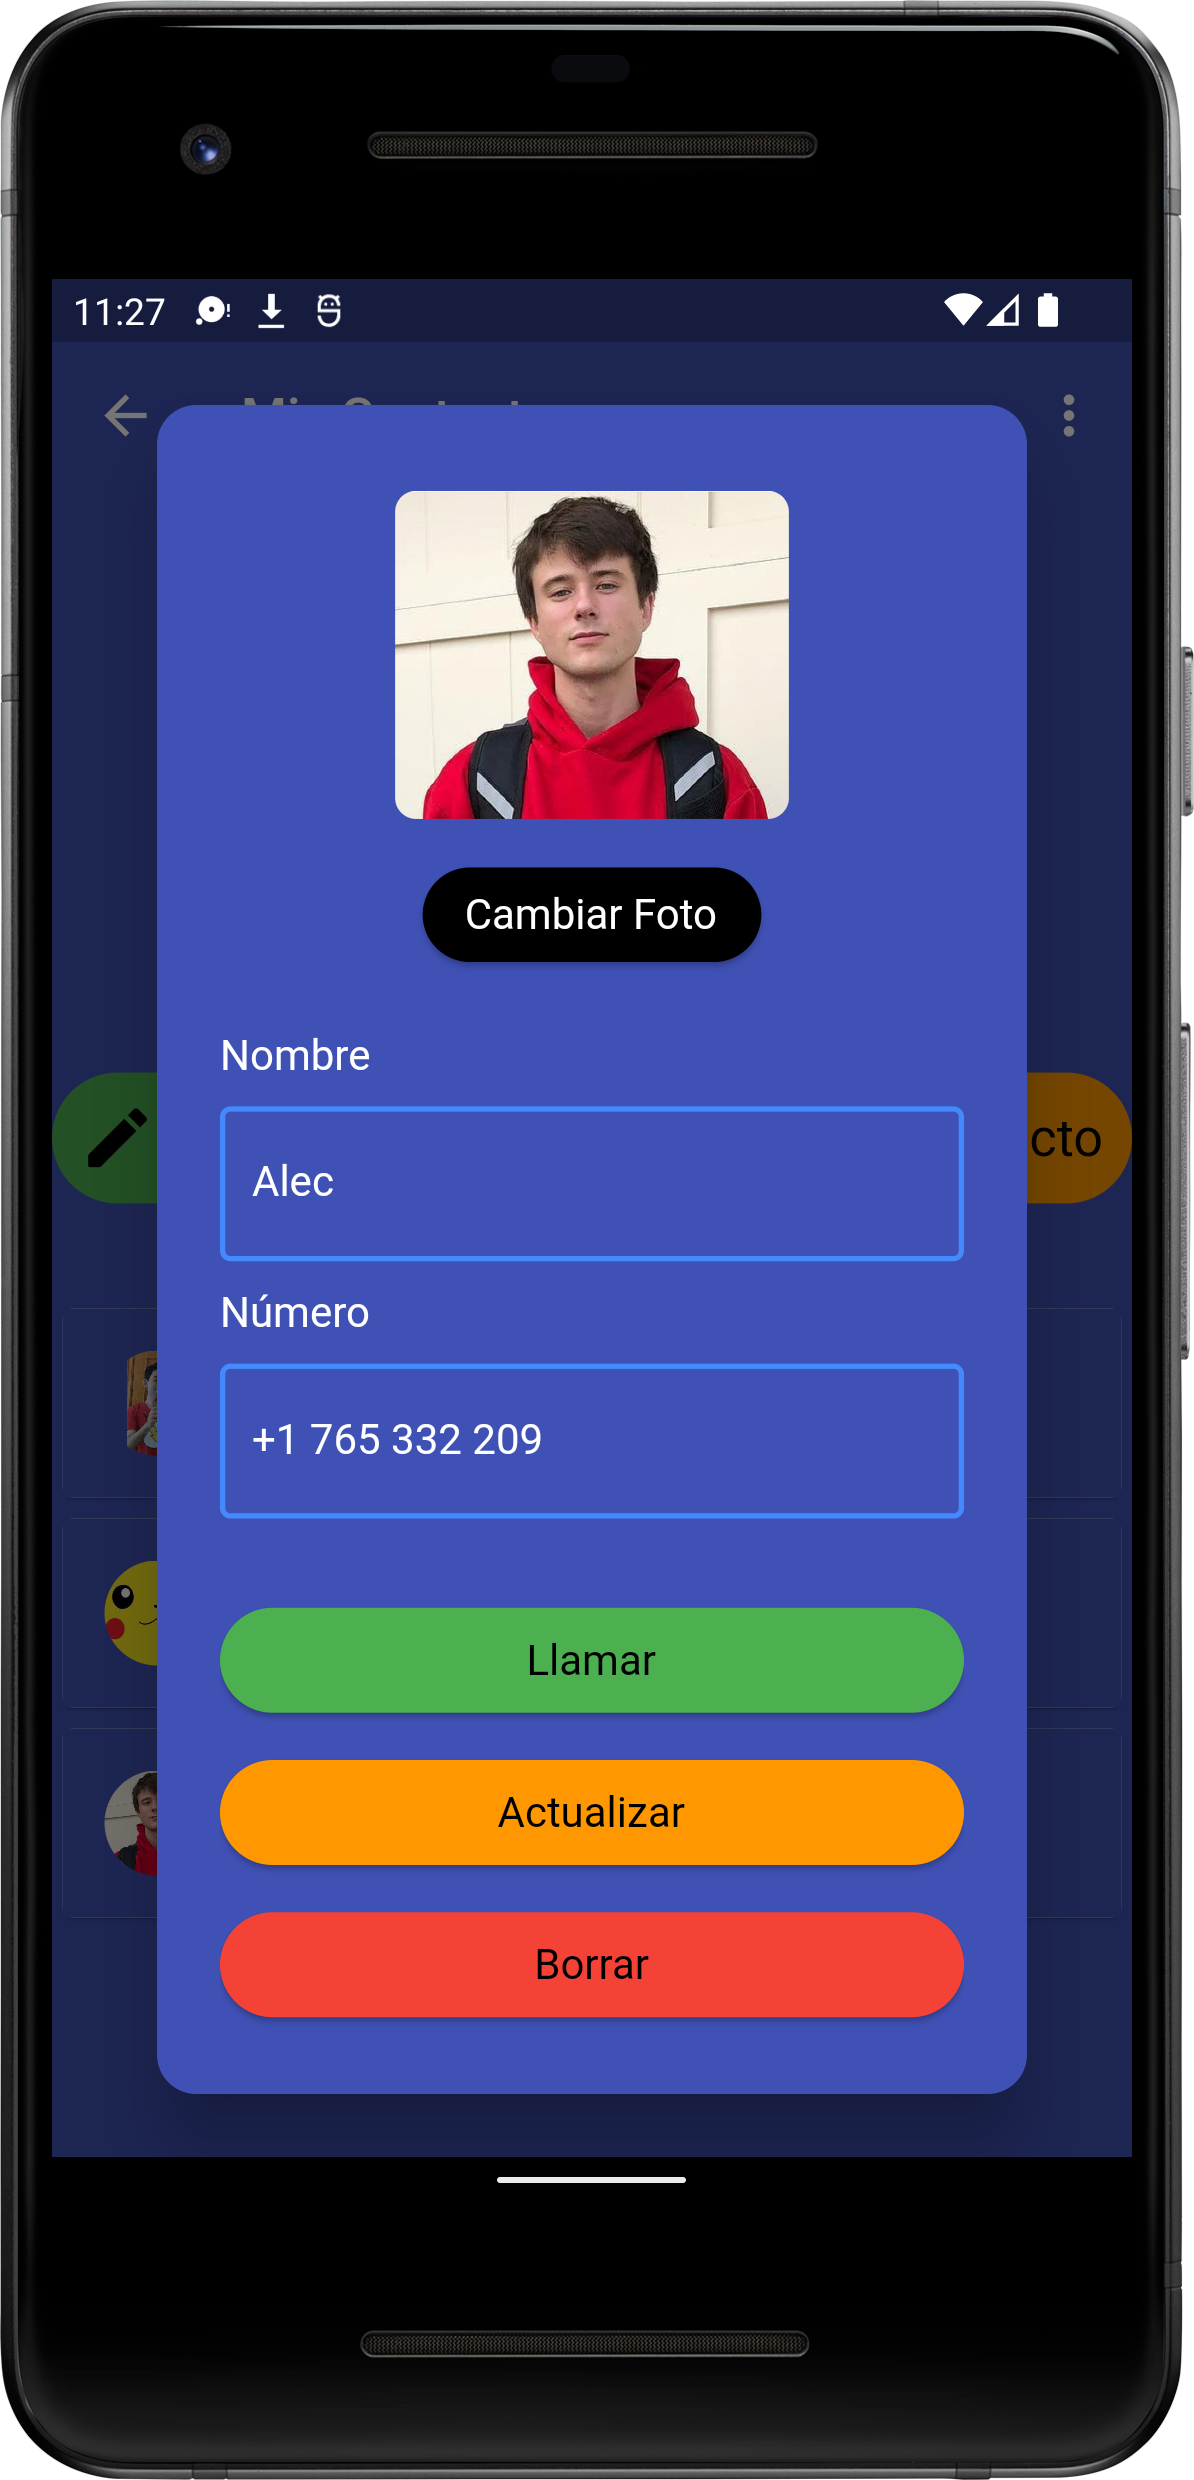
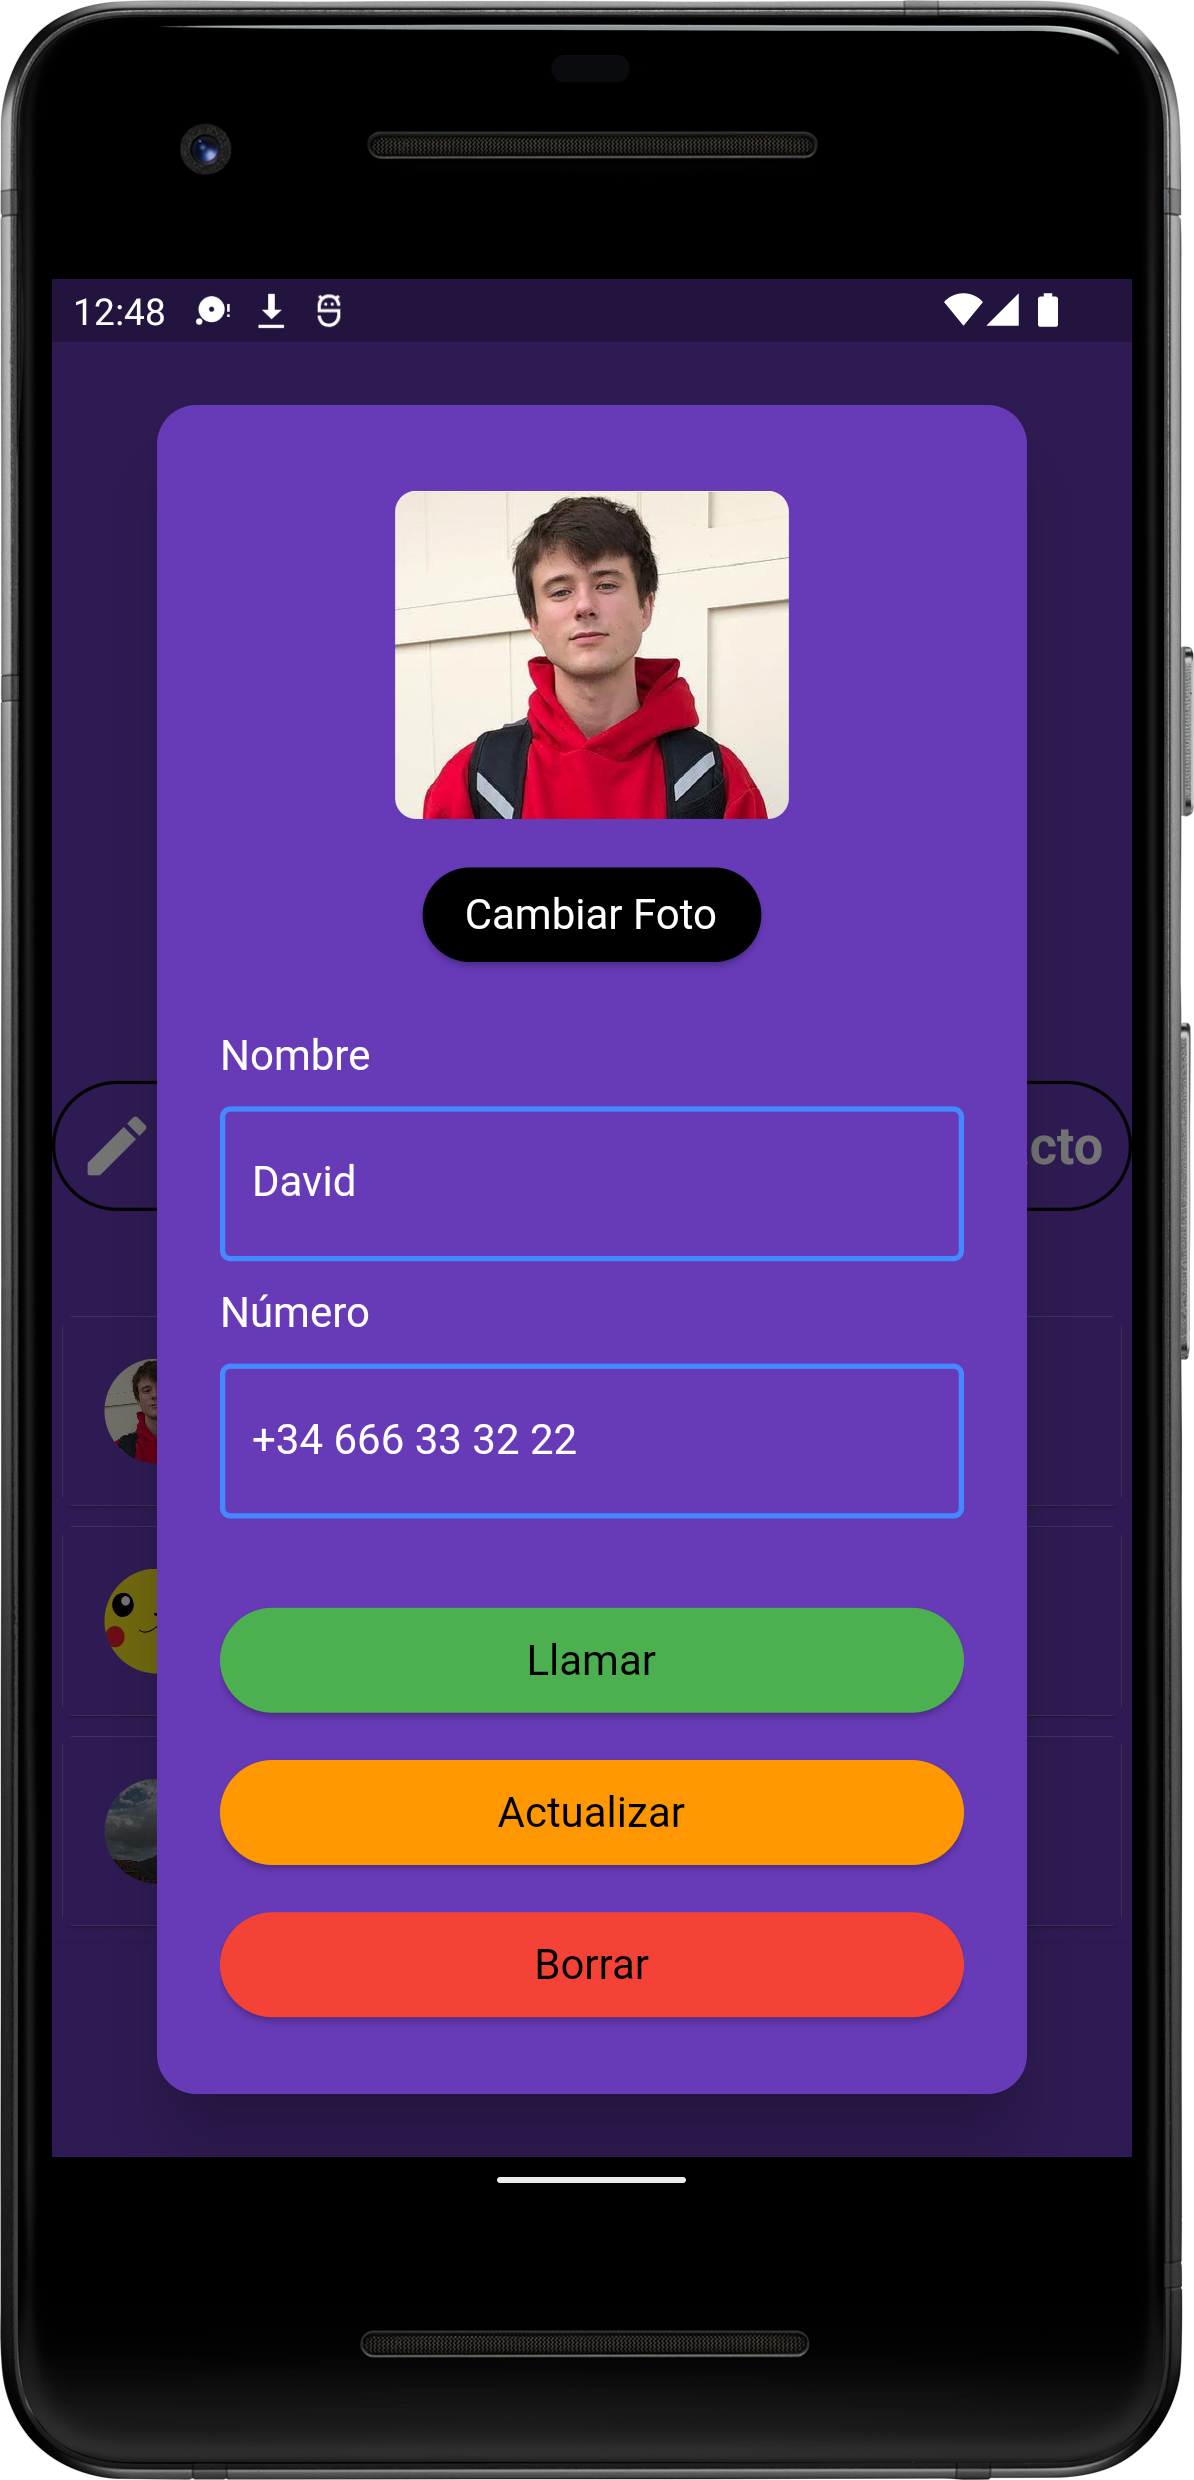
UI improvements

diff --git a/lib/Contacts.dart b/lib/Contacts.dart
@@ -745,68 +745,16 @@ void exportContacts(String path) async{
     return Scaffold(
       backgroundColor: colores[mode_counter],
       appBar: AppBar(
+        automaticallyImplyLeading: false,
         elevation: 0.0,
         backgroundColor: colores[mode_counter],
-        title: Text(language[current_language]["Contacts"]["title"],
-          style: TextStyle(color: fonts[mode_counter]),
-
-        ),
-        actions: [
-          PopupMenuButton(
-            color: colores[mode_counter],
-            itemBuilder: (context){
-              return[
-                PopupMenuItem<int>(
-                  value: 0,
-                  child: Text(
-                   language[current_language]["Contacts"]["menu_button"],
-                    style: TextStyle(color:  Colors.white),
-
-                  ),
-                ),
-
-                PopupMenuItem(
-                  value: 1,
-                  child: Text(
-              language[current_language]["Contacts"]["menu_button_2"],
-                      style: TextStyle(color:  Colors.white)),
-                ),
-              ];
-
-            },
-
-            onSelected: (value) async {
-              if(value == 0){
-                pickFile();
-
-              }
-
-              else if ( value == 1){
-                pickDirectory(); // User can pick a dir
-                if (myBackupDir == null){
-                ScaffoldMessenger.of(context).showSnackBar(SnackBar(
-                content: Text("User cancelled the operation :("),
-                ));
-                } else{
-                exportContacts(myBackupDir);
-                ScaffoldMessenger.of(context).showSnackBar(SnackBar(
-                content: Text("$myBackupFile"),
-                ));
-
-                }
-
-              }
-            }
-          )
-        ],
-        iconTheme: IconThemeData(
-          color: fonts[mode_counter], //change your color here
-        ),
     ),
     body: Column(
       children: <Widget>[
-      Text("\n"),
       Image.asset('assets/images/contacts.png'),
+        Text(language[current_language]["Contacts"]["title"],
+          style: TextStyle(color: Colors.white, fontSize: 30, fontWeight: FontWeight.bold),
+        ),
         FittedBox(
             child: Container(
                 width: MediaQuery
@@ -827,11 +775,17 @@ void exportContacts(String path) async{
                           language[current_language]["Contacts"]["button1"],
                           style: TextStyle(
                               fontSize: 16,
-                              color: Colors.black),
+                              color: Colors.white,
+                              fontWeight: FontWeight.bold),
                         ),
                         style: TextButton.styleFrom(
-                          textStyle: TextStyle(color: Colors.black),
-                          backgroundColor: Colors.green,
+                          side: BorderSide(
+                            width: 1.0,
+                            color: Colors.black,
+                            style: BorderStyle.solid,
+                          ),
+                          textStyle: TextStyle(color: Colors.white),
+                          backgroundColor: Colors.transparent,
                           shape:RoundedRectangleBorder(
                             borderRadius: BorderRadius.circular(24.0),
                           ),
@@ -841,6 +795,8 @@ void exportContacts(String path) async{
                            context: context,
                            builder: (BuildContext context){
                              return AlertDialog(
+                               shape: RoundedRectangleBorder(
+                                   borderRadius: BorderRadius.all(Radius.circular(15.0))),
                                backgroundColor: Colors.lightGreen,
                                content: SingleChildScrollView(
                                  child: Column(
@@ -916,18 +872,25 @@ void exportContacts(String path) async{
 
                          );
                         },
-                        icon: Icon(Icons.create_rounded, color: Colors.black,),
+                        icon: Icon(Icons.create_rounded, color: Colors.white
+                          ,),
                       ), SizedBox(width: 10,),
                       TextButton.icon(
                         label: Text(
                           language[current_language]["Contacts"]["button2"],
                           style: TextStyle(
                               fontSize: 16,
-                              color: Colors.black),
+                              color: Colors.white,
+                             fontWeight: FontWeight.bold ),
                         ),
                         style: TextButton.styleFrom(
-                          textStyle: TextStyle(color: Colors.black),
-                          backgroundColor: Colors.orange,
+                          side: BorderSide(
+                            width: 1.0,
+                            color: Colors.black,
+                            style: BorderStyle.solid,
+                          ),
+                          textStyle: TextStyle(color: Colors.white),
+                          backgroundColor: Colors.transparent,
                           shape:RoundedRectangleBorder(
                             borderRadius: BorderRadius.circular(24.0),
                           ),
@@ -951,14 +914,12 @@ void exportContacts(String path) async{
                             content: Text(language[current_language]["Contacts"]["toaster"] + "\n" + name + "(" + number+ ")"),
                           ));
                         },
-                        icon: Icon(Icons.add_rounded, color: Colors.black,),
+                        icon: Icon(Icons.add_rounded, color: Colors.white,),
                       ),
                     ]))
         ),
 
         ),if(contactos.length == 0) Image.asset("assets/images/empty.png") ,
-        if(contactos.length == 0) Text(language[current_language]["Contacts"]["empty"],
-            style: TextStyle(color: fonts[mode_counter], fontSize: 20)) ,
 
       Expanded(
     child : ListView.builder(
@@ -992,6 +953,51 @@ void exportContacts(String path) async{
         },
       ),
 
-    )]));
+    )]
+    ),
+        bottomNavigationBar: BottomNavigationBar(
+          iconSize: 35,
+          showSelectedLabels: true,
+          showUnselectedLabels: true,
+          backgroundColor: colores[mode_counter],
+          unselectedItemColor: fonts[mode_counter],
+          selectedItemColor: fonts[mode_counter],
+
+          items: <BottomNavigationBarItem>[
+            BottomNavigationBarItem(
+              label: '',
+              icon: IconButton(
+                alignment: Alignment.bottomLeft,
+                icon: Icon(Icons.import_contacts_rounded),
+                onPressed: (){
+                  setState(() async {
+                    pickFile();
+                  });
+                },
+              )
+            ),
+            BottomNavigationBarItem(
+              label: '',
+              icon: IconButton(
+                alignment: Alignment.bottomRight,
+                icon: Icon(Icons.ios_share_rounded),
+                onPressed: (){
+                  pickDirectory(); // User can pick a dir
+                  if (myBackupDir == null){
+                    ScaffoldMessenger.of(context).showSnackBar(SnackBar(
+                      content: Text("User cancelled the operation :("),
+                    ));
+                  } else{
+                    exportContacts(myBackupDir);
+                    ScaffoldMessenger.of(context).showSnackBar(SnackBar(
+                      content: Text("$myBackupFile"),
+                    ));
+                  }
+                },
+              )
+            )
+          ],
+    ),
+    );
   }
 }

diff --git a/lib/History.dart b/lib/History.dart
@@ -221,71 +221,24 @@ class _HistoryState extends State<History>{
     return Scaffold(
     backgroundColor: colores[mode_counter],
     appBar: AppBar(
+      automaticallyImplyLeading: false,
       elevation: 0.0,
       backgroundColor: colores[mode_counter],
-      title: Text(
-        language[current_language]["History"]["title"],
-        style: TextStyle(color: fonts[mode_counter]),
-      ),
       iconTheme: IconThemeData(
         color: fonts[mode_counter], //change your color here
       ),
-
-      actions: [
-        PopupMenuButton(
-          color: colores[mode_counter],
-          itemBuilder: (context){
-            return [
-              PopupMenuItem(
-                value: 0,
-                child: Text(language[current_language]["History"]["menu1"], style: TextStyle(color: Colors.white)),
-              ),
-              PopupMenuItem(
-                value: 1,
-                child: Text(language[current_language]["History"]["menu2"], style: TextStyle(color: Colors.white),),
-              ),
-              PopupMenuItem(
-                value: 2,
-                child: Text(language[current_language]["History"]["menu3"], style: TextStyle(color: Colors.white)),
-              ),
-
-            ];
-          },
-          onSelected : (value) async {
-
-            if ( value == 0){
-              importHistory();
-            }
-            else if (value == 1){
-              exportHistory();
-
-            } else if (value == 2){
-
-              setState(() async {
-                cleanHistory();
-
-              });
-
-            }
-    }
-        )
-      ],
     ),
 
       body: Column(
         children: <Widget>[
-          Text("\n"),
           Image.asset('assets/images/history.png'),
-          Text("\n\n"),
           Text(
               language[current_language]["History"]["subtitle"],
-          style: TextStyle(color: fonts[mode_counter], fontSize: 35),
+          style: TextStyle(color: fonts[mode_counter], fontSize: 30, fontWeight: FontWeight.bold),
 
           ),
-          if(numeros.length == 0) Text("\n"),
-          if(numeros.length == 0) Image.asset("assets/images/empty.png") ,
-          if(numeros.length == 0) Text(language[current_language]["Contacts"]["empty"],
-              style: TextStyle(color: fonts[mode_counter], fontSize: 20)) ,
+          if(numeros.length == 0) Image.asset("assets/images/empty.png", width: 800, height: 300,) ,
+
         Expanded(
           child : ListView.builder(
             itemCount: numeros.length,
@@ -323,6 +276,49 @@ class _HistoryState extends State<History>{
           )
         ],
         ),
+      bottomNavigationBar: BottomNavigationBar(
+        iconSize: 35,
+        showSelectedLabels: true,
+        showUnselectedLabels: true,
+        backgroundColor: colores[mode_counter],
+        unselectedItemColor: fonts[mode_counter],
+        selectedItemColor: fonts[mode_counter],
+
+        items: <BottomNavigationBarItem>[
+          BottomNavigationBarItem(
+              label: '',
+              icon: IconButton(
+                alignment: Alignment.bottomLeft,
+                icon: Icon(Icons.import_contacts_rounded),
+                onPressed: (){
+                  importHistory();
+                },
+              )
+          ),
+
+          BottomNavigationBarItem(
+              label: '',
+              icon: IconButton(
+                alignment: Alignment.bottomCenter,
+                icon: Icon(Icons.ios_share_rounded),
+                onPressed: (){
+                  exportHistory();
+                },
+              )
+          ),
+
+          BottomNavigationBarItem(
+              label: '',
+              icon: IconButton(
+                alignment: Alignment.bottomRight,
+                icon: Icon(Icons.delete_rounded),
+                onPressed: (){
+                  cleanHistory();
+                },
+              )
+          )
+        ],
+      ),
       );
   }
 }
